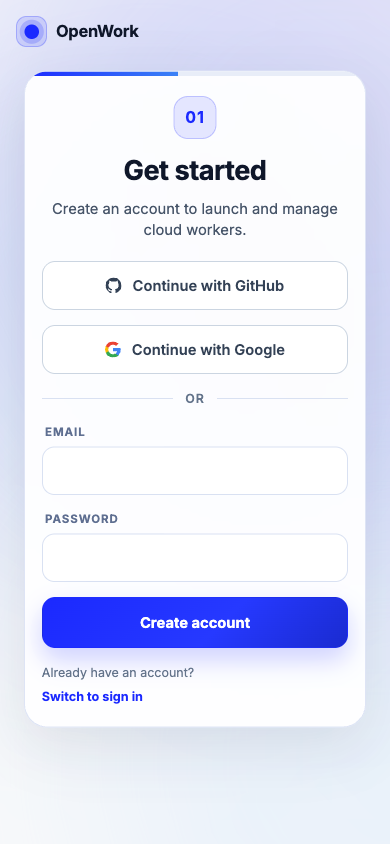
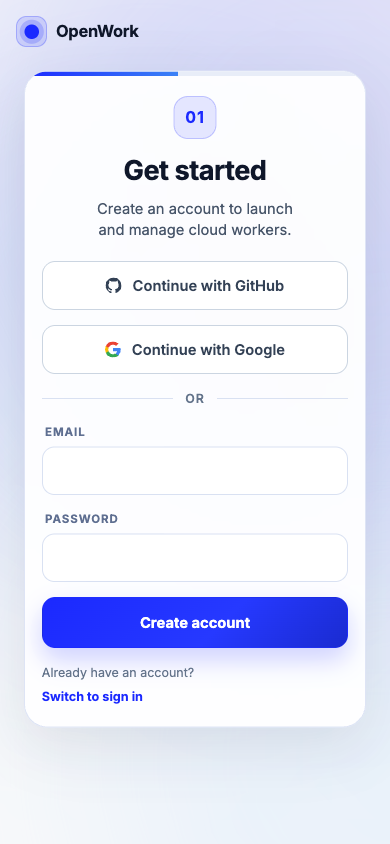
Simplify signup subtitle lines

Changed region(s): [[0.1538, 0.2156, 0.8615, 0.2773]]

diff --git a/packages/web/components/cloud-control.tsx b/packages/web/components/cloud-control.tsx
@@ -2375,9 +2375,8 @@ export function CloudControlPanel() {
               <p className="ow-subtitle">
                 {authMode === "sign-up" ? (
                   <>
-                    Create an account to launch{" "}
-                    <br className="ow-subtitle-break" />
-                    and manage cloud workers.
+                    <span className="ow-subtitle-line">Create an account to launch</span>
+                    <span className="ow-subtitle-line">and manage cloud workers.</span>
                   </>
                 ) : (
                   getAuthInfoForMode("sign-in")

diff --git a/packages/web/app/globals.css b/packages/web/app/globals.css
@@ -223,8 +223,8 @@ body {
   line-height: 1.45;
 }
 
-.ow-subtitle-break {
-  display: none;
+.ow-subtitle-line {
+  display: block;
 }
 
 .ow-field-block {
@@ -1069,12 +1069,6 @@ body {
     flex-direction: column;
     align-items: flex-start;
     gap: 0.35rem;
-  }
-}
-
-@media (min-width: 641px) {
-  .ow-subtitle-break {
-    display: block;
   }
 }
 
